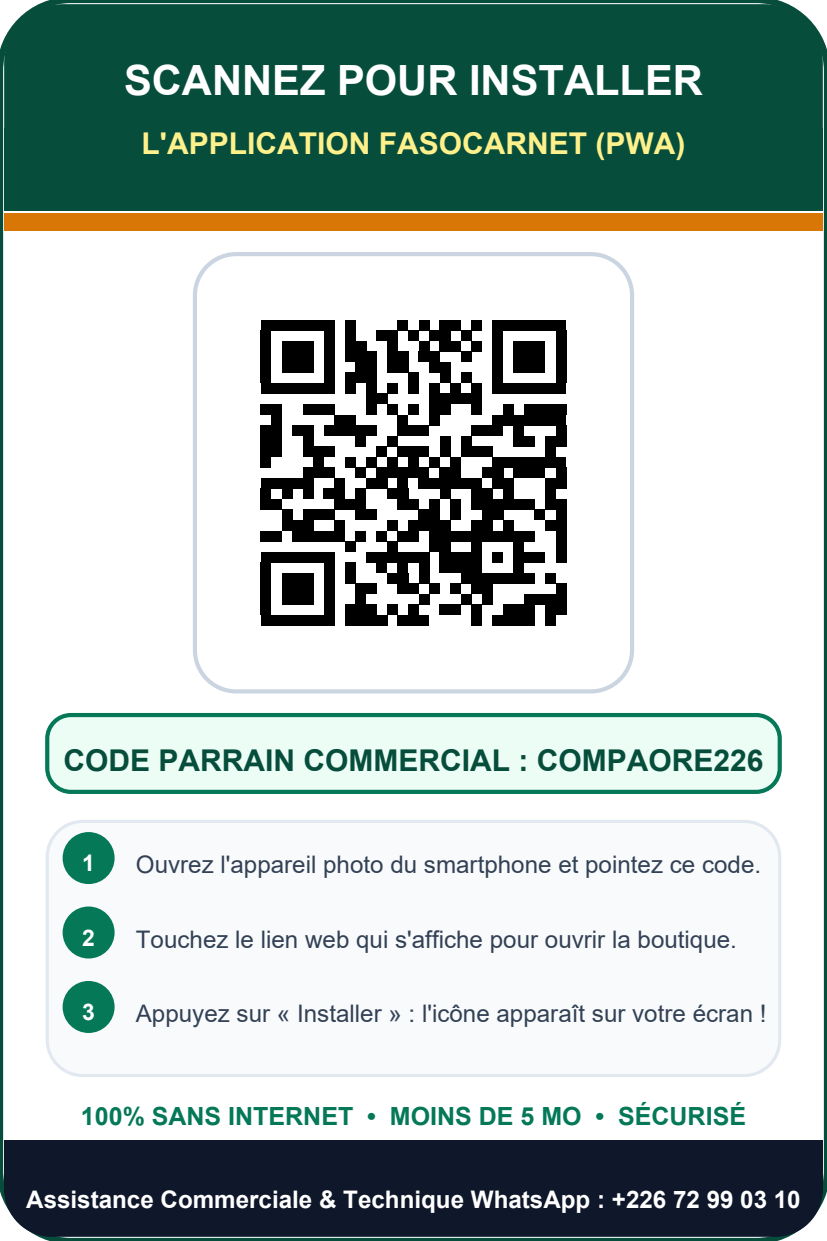
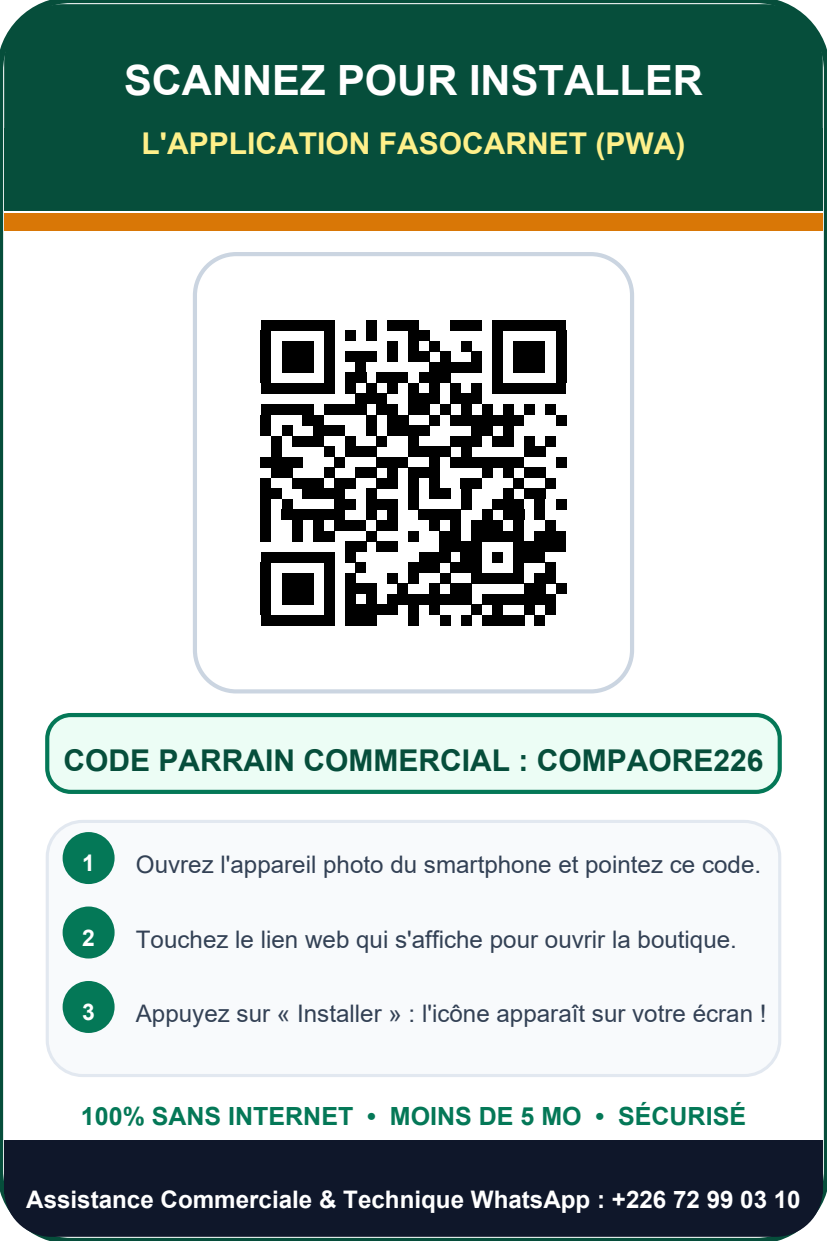
fix(commercial): update QR code target URL to fasocarnet.onrender.com/?ref=COMPAORE226

Changed region(s): [[0.3023, 0.245, 0.6953, 0.5205]]

diff --git a/scripts/generate_commercial_badge.py b/scripts/generate_commercial_badge.py
@@ -219,7 +219,7 @@ def draw_badge_verso(c, x, y, w, h, commercial):
     qr_size = 33 * mm
     qr_x = x + (w - qr_size) / 2
     qr_y = qr_box_y + 2 * mm
-    qr_url = f"https://fasocarnet.com/?ref={commercial['code']}"
+    qr_url = f"https://fasocarnet.onrender.com/?ref={commercial['code']}"
     draw_qr_code(c, qr_url, qr_x, qr_y, qr_size)
     
     # 4. Code Commercial sous le QR Code
